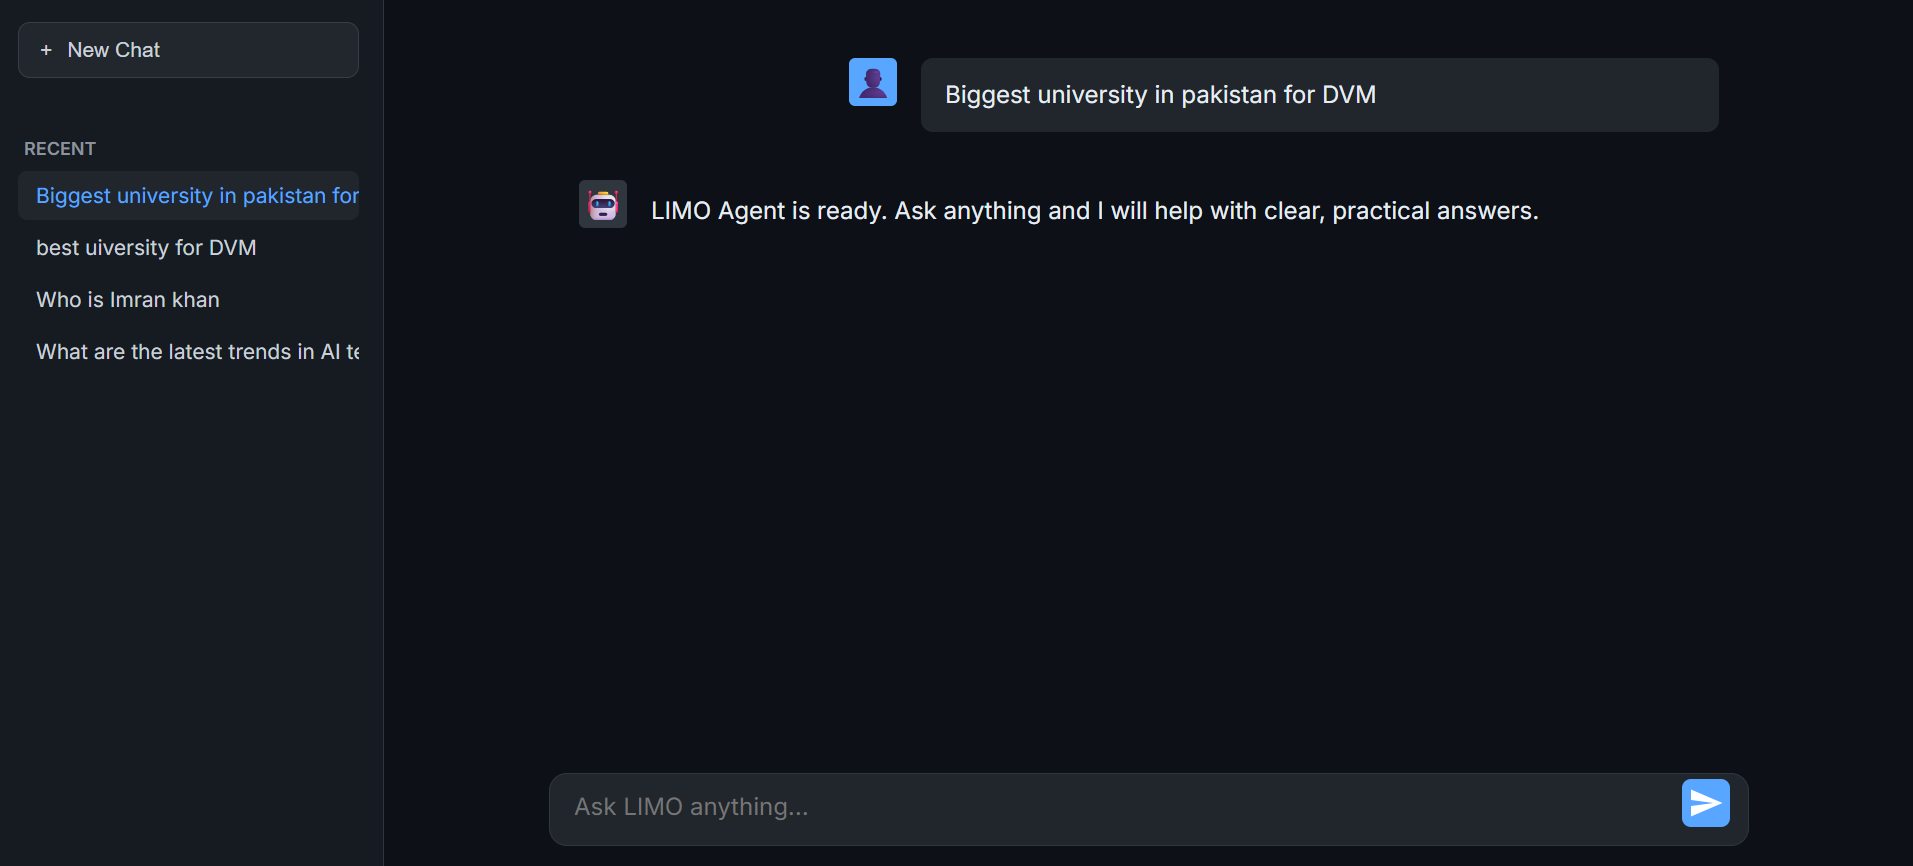
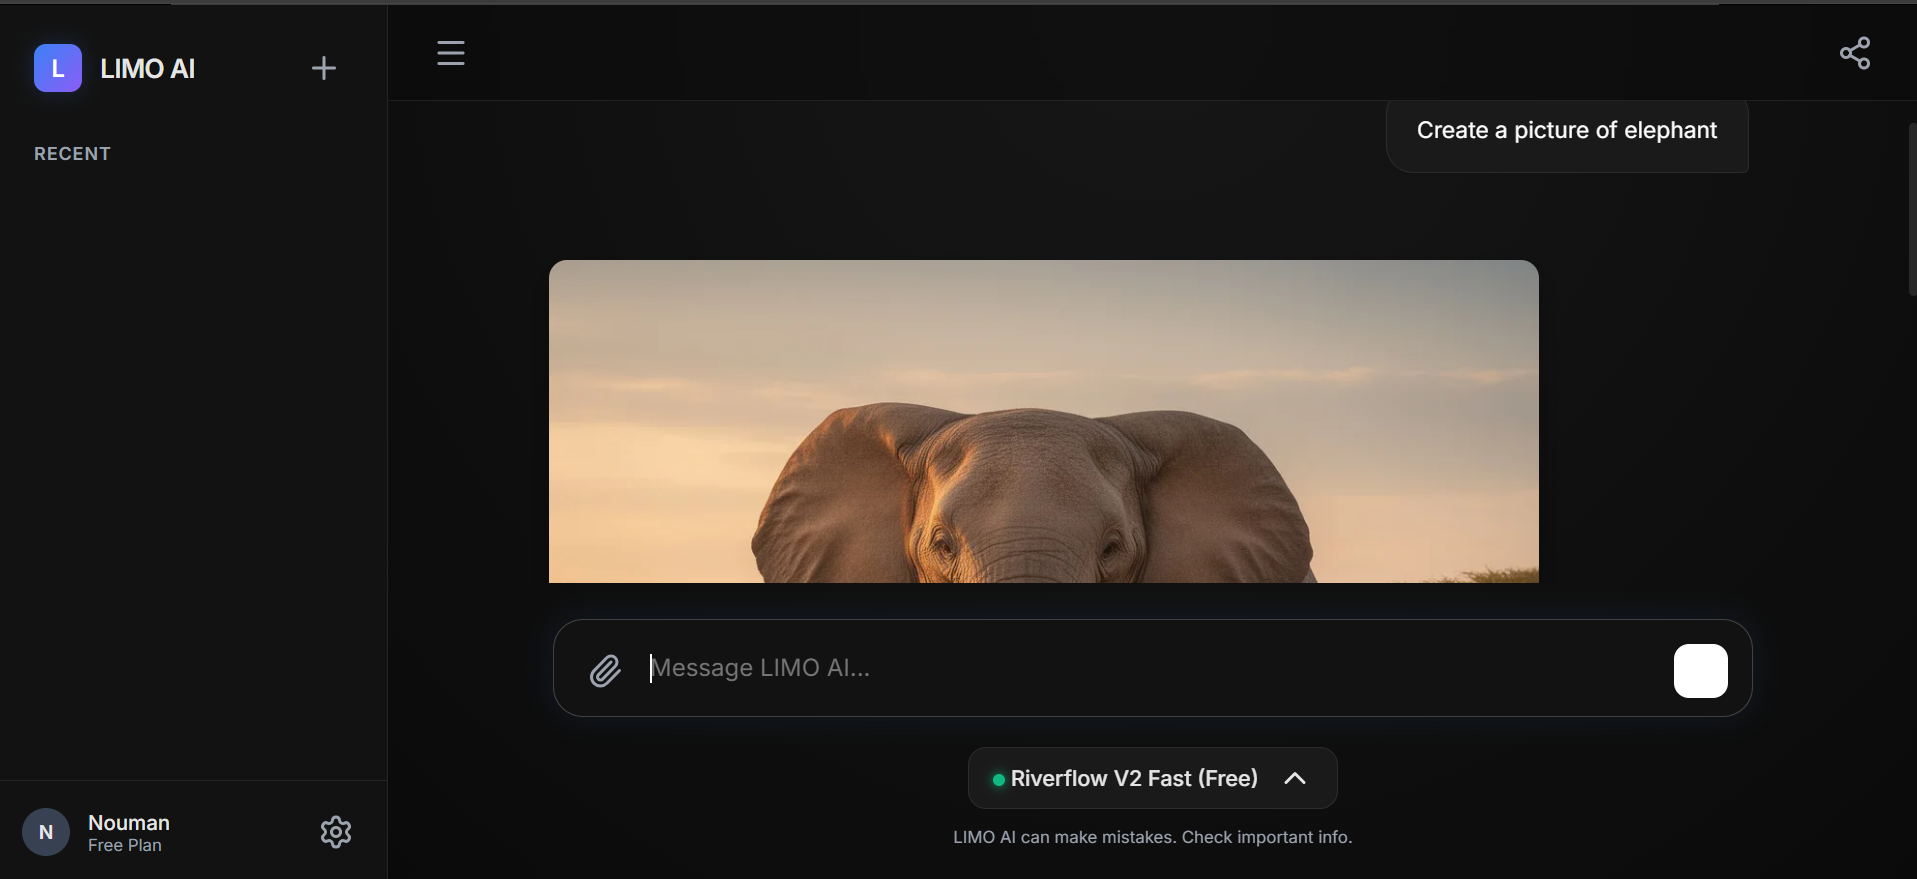
Add new picture

diff --git a/Projects.html b/Projects.html
@@ -67,12 +67,12 @@
                         <span class="project-num">02</span>
                         <div class="project-meta">
                             <h3>LIMO AGENT</h3>
-                            <p class="project-description">LIMO Agent is a web-based AI chatbot similar to GPT. This project is now focused only on chatbot functionality.</p>
-                            <p class="project-tech">Python • AI • Chatbot</p>
+                            <p class="project-description">LIMO Agent is an advanced AI assistant featuring integrated Google Veo 3.1 Lite for professional video generation and intelligent chatbot capabilities.</p>
+                            <p class="project-tech">Python • AI • Video Gen • Chatbot</p>
                         </div>
                     </div>
                     <div class="project-img-preview">
-                        <img src="Projects/LIMO AGENT.png" alt="LIMO AGENT">
+                        <img src="Projects/Limo agent.png" alt="LIMO AGENT">
                     </div>
                     <a href="https://github.com/alfa546/LIMO_AGENT" target="_blank" class="project-link">View Repo ↗</a>
                 </div>
